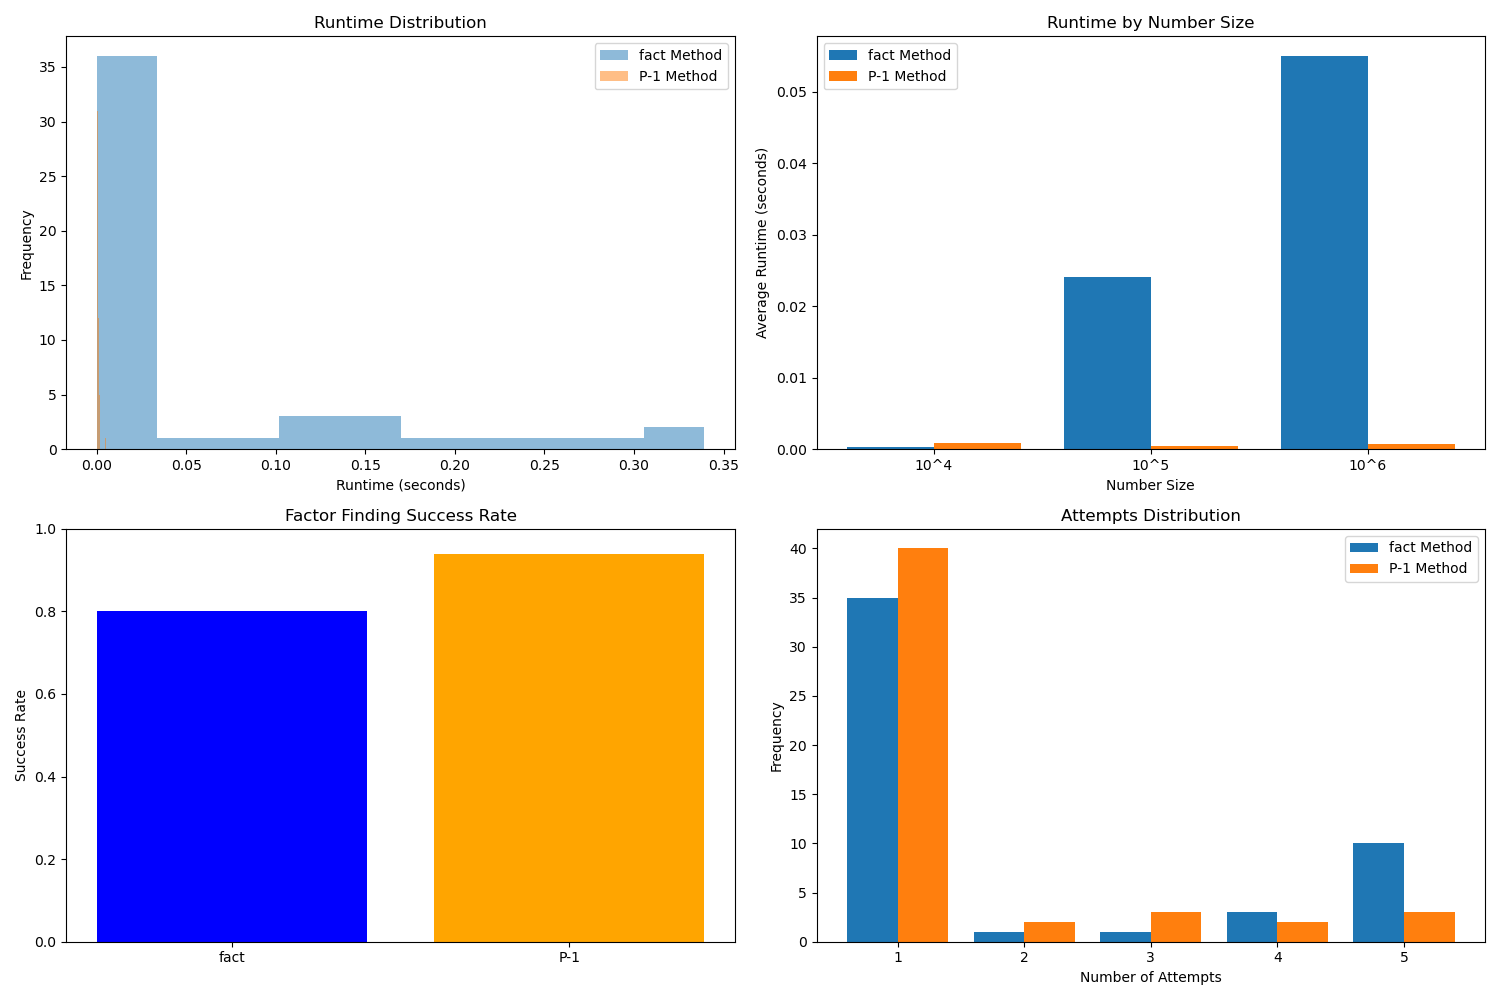
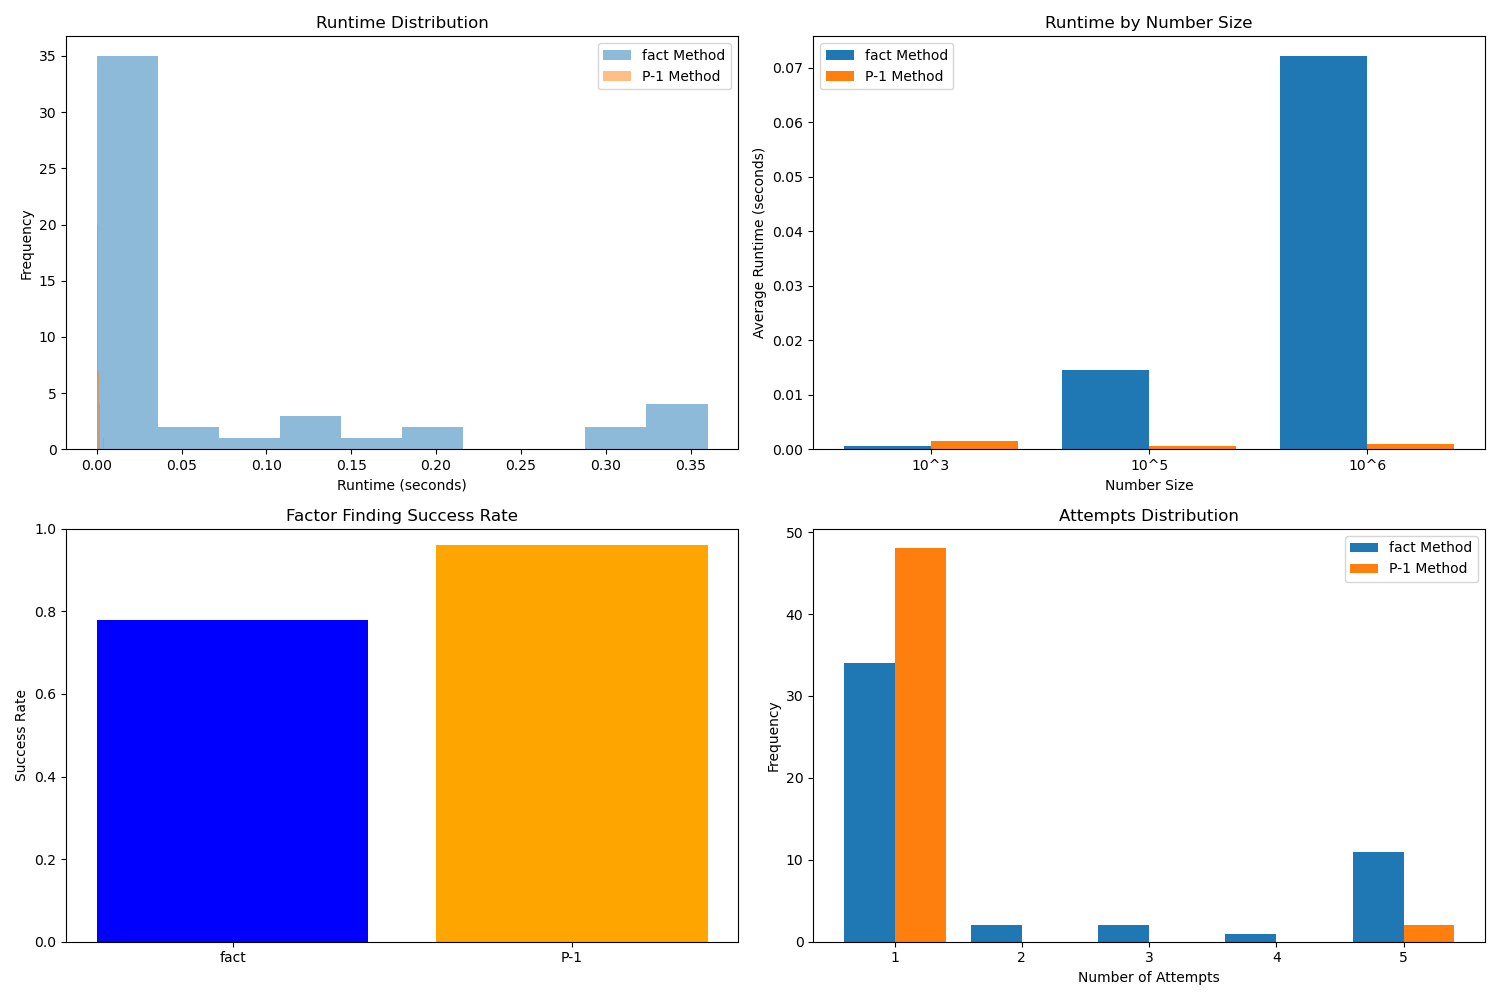
factor_algo

diff --git a/factorization_stats.py b/factorization_stats.py
@@ -16,7 +16,7 @@ def find_factor(N, x, y, delta):
     for p in range(2, B+1):
         if is_prime(p):
             power = math.floor(math.log(B, p))
-            M *= power
+            M *= (p**power)
 
     x1, y1 = self_add_optimized(M, x, y, delta, R)
     # print(x1, y1)

diff --git a/curve_factor.py b/curve_factor.py
@@ -40,7 +40,7 @@ def find_factor(N, x, y, delta):
     for p in range(2, B+1):
         if is_prime(p):
             power = math.floor(math.log(B, p))
-            M *= power
+            M *= p**power
 
     x1, y1 = self_add_optimized(M, x, y, delta, R)
     # print(x1, y1)
